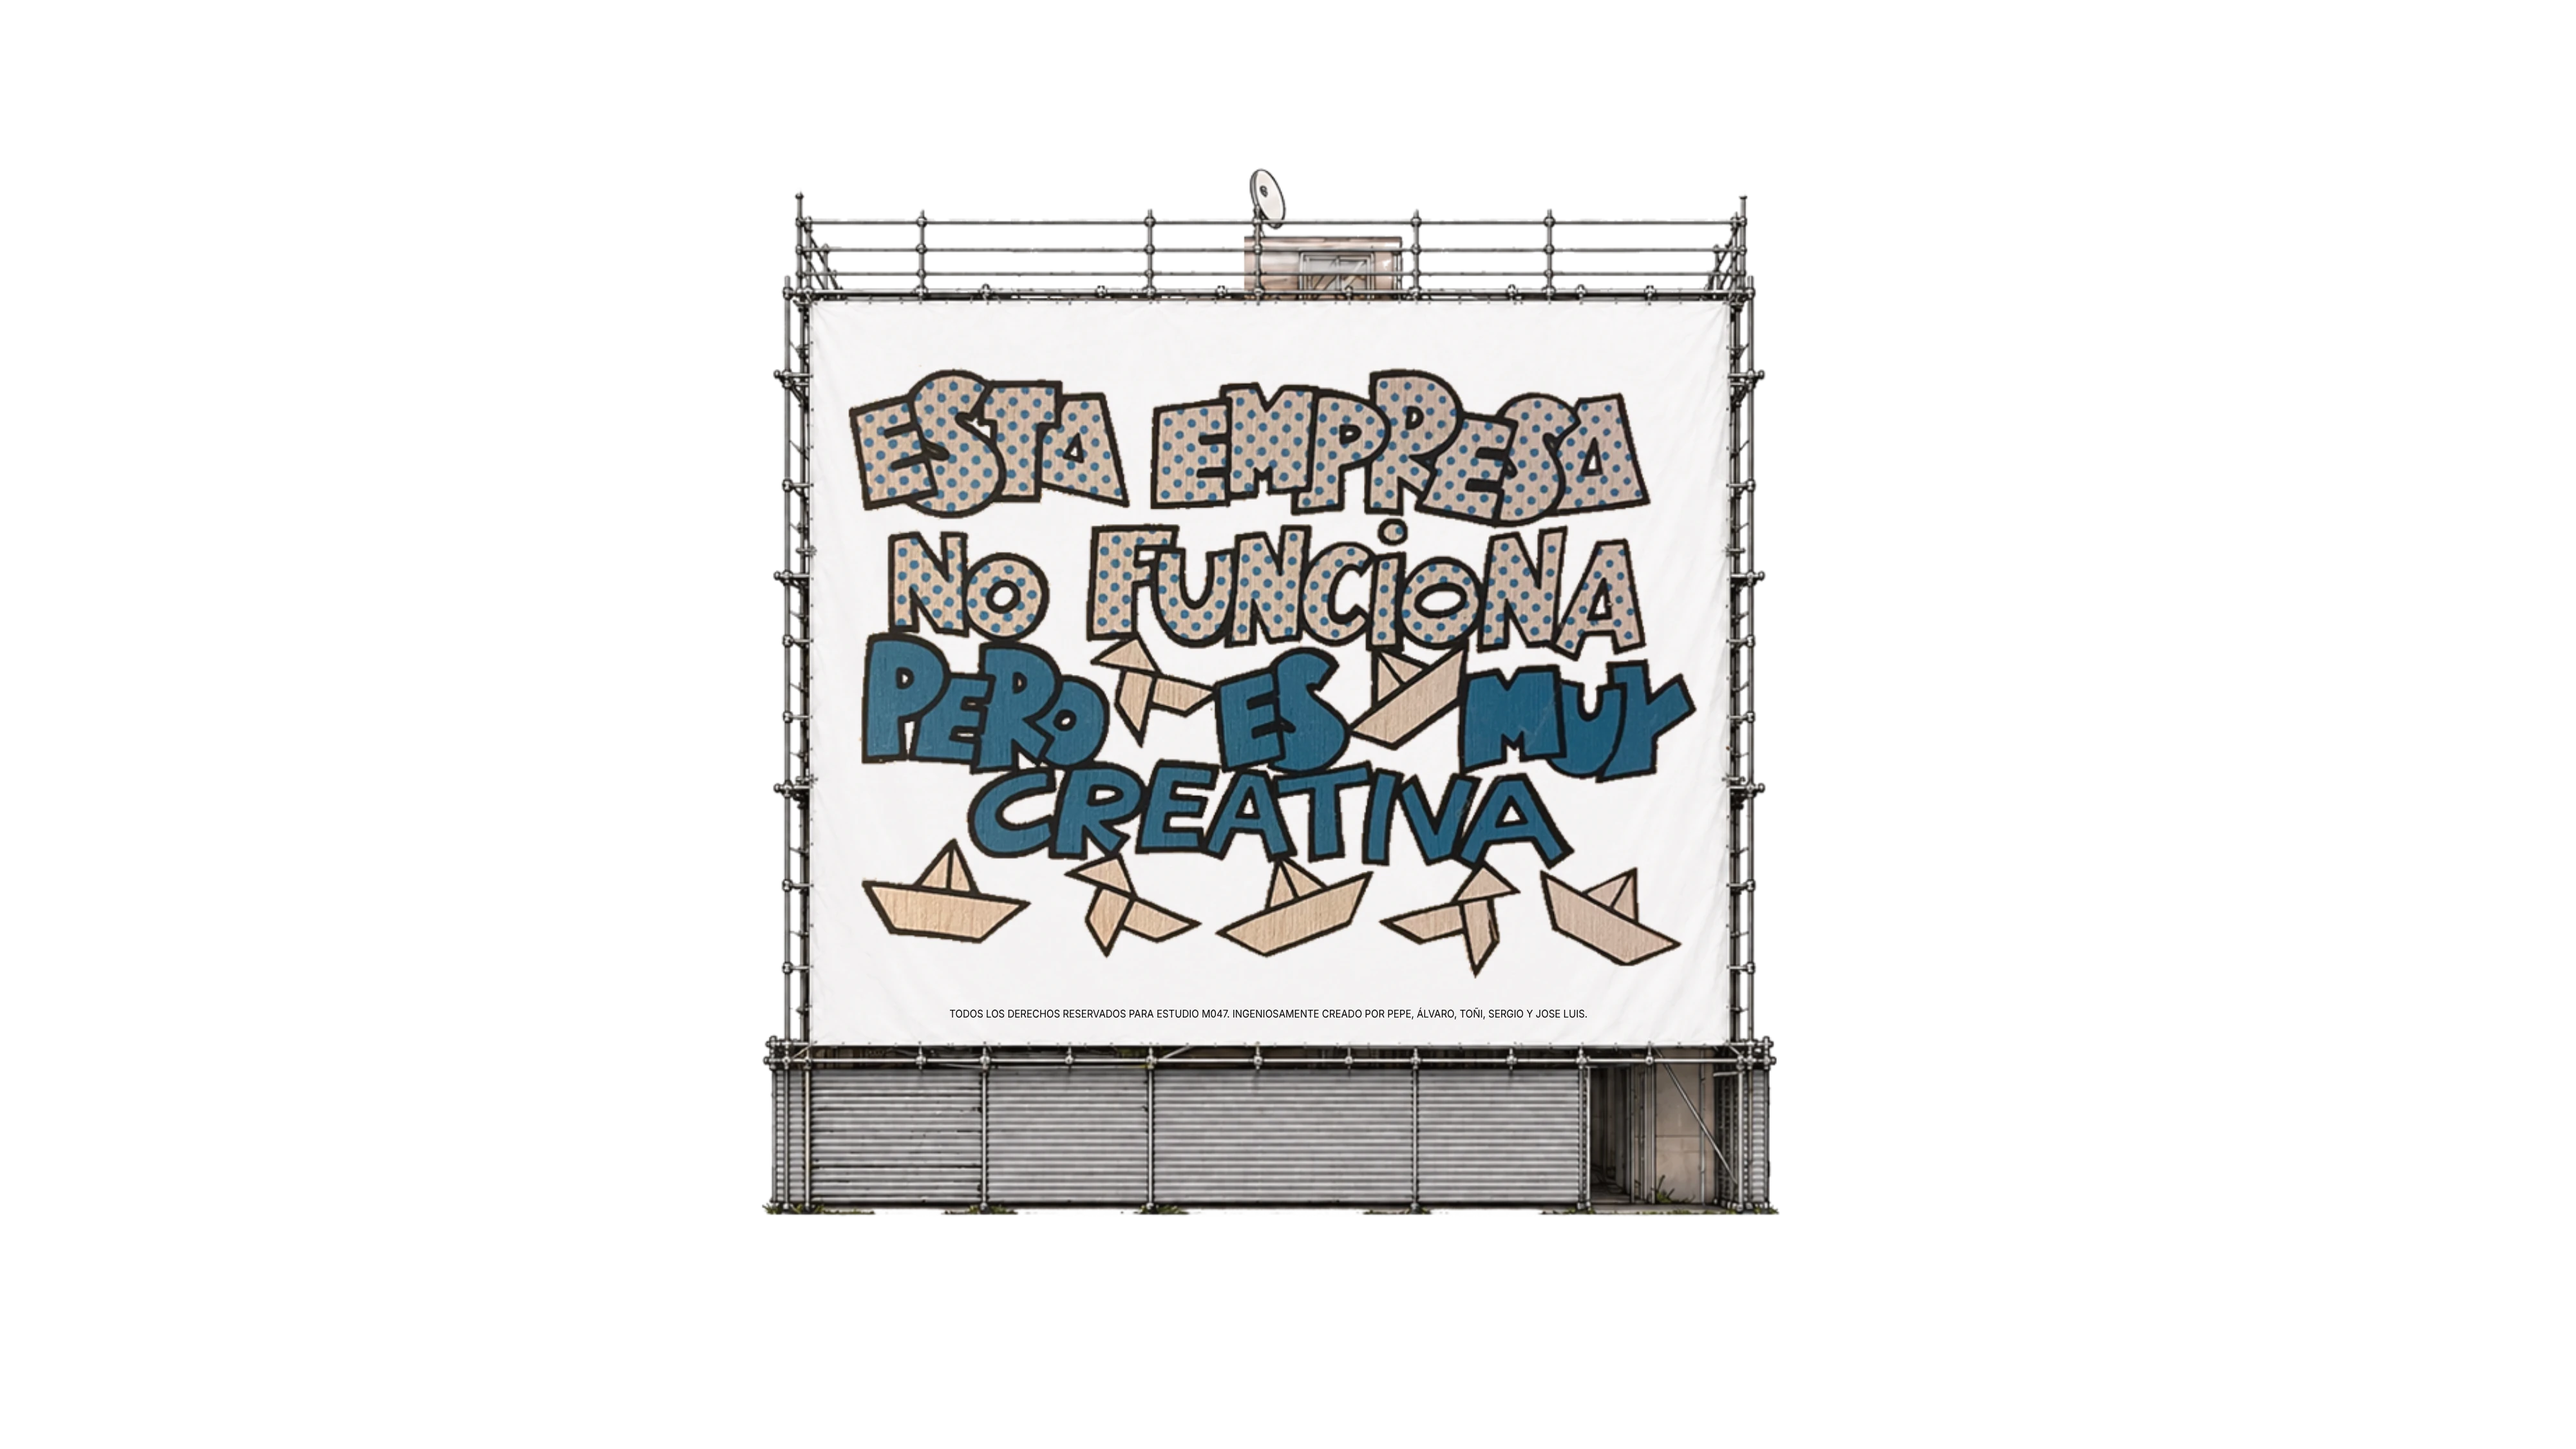
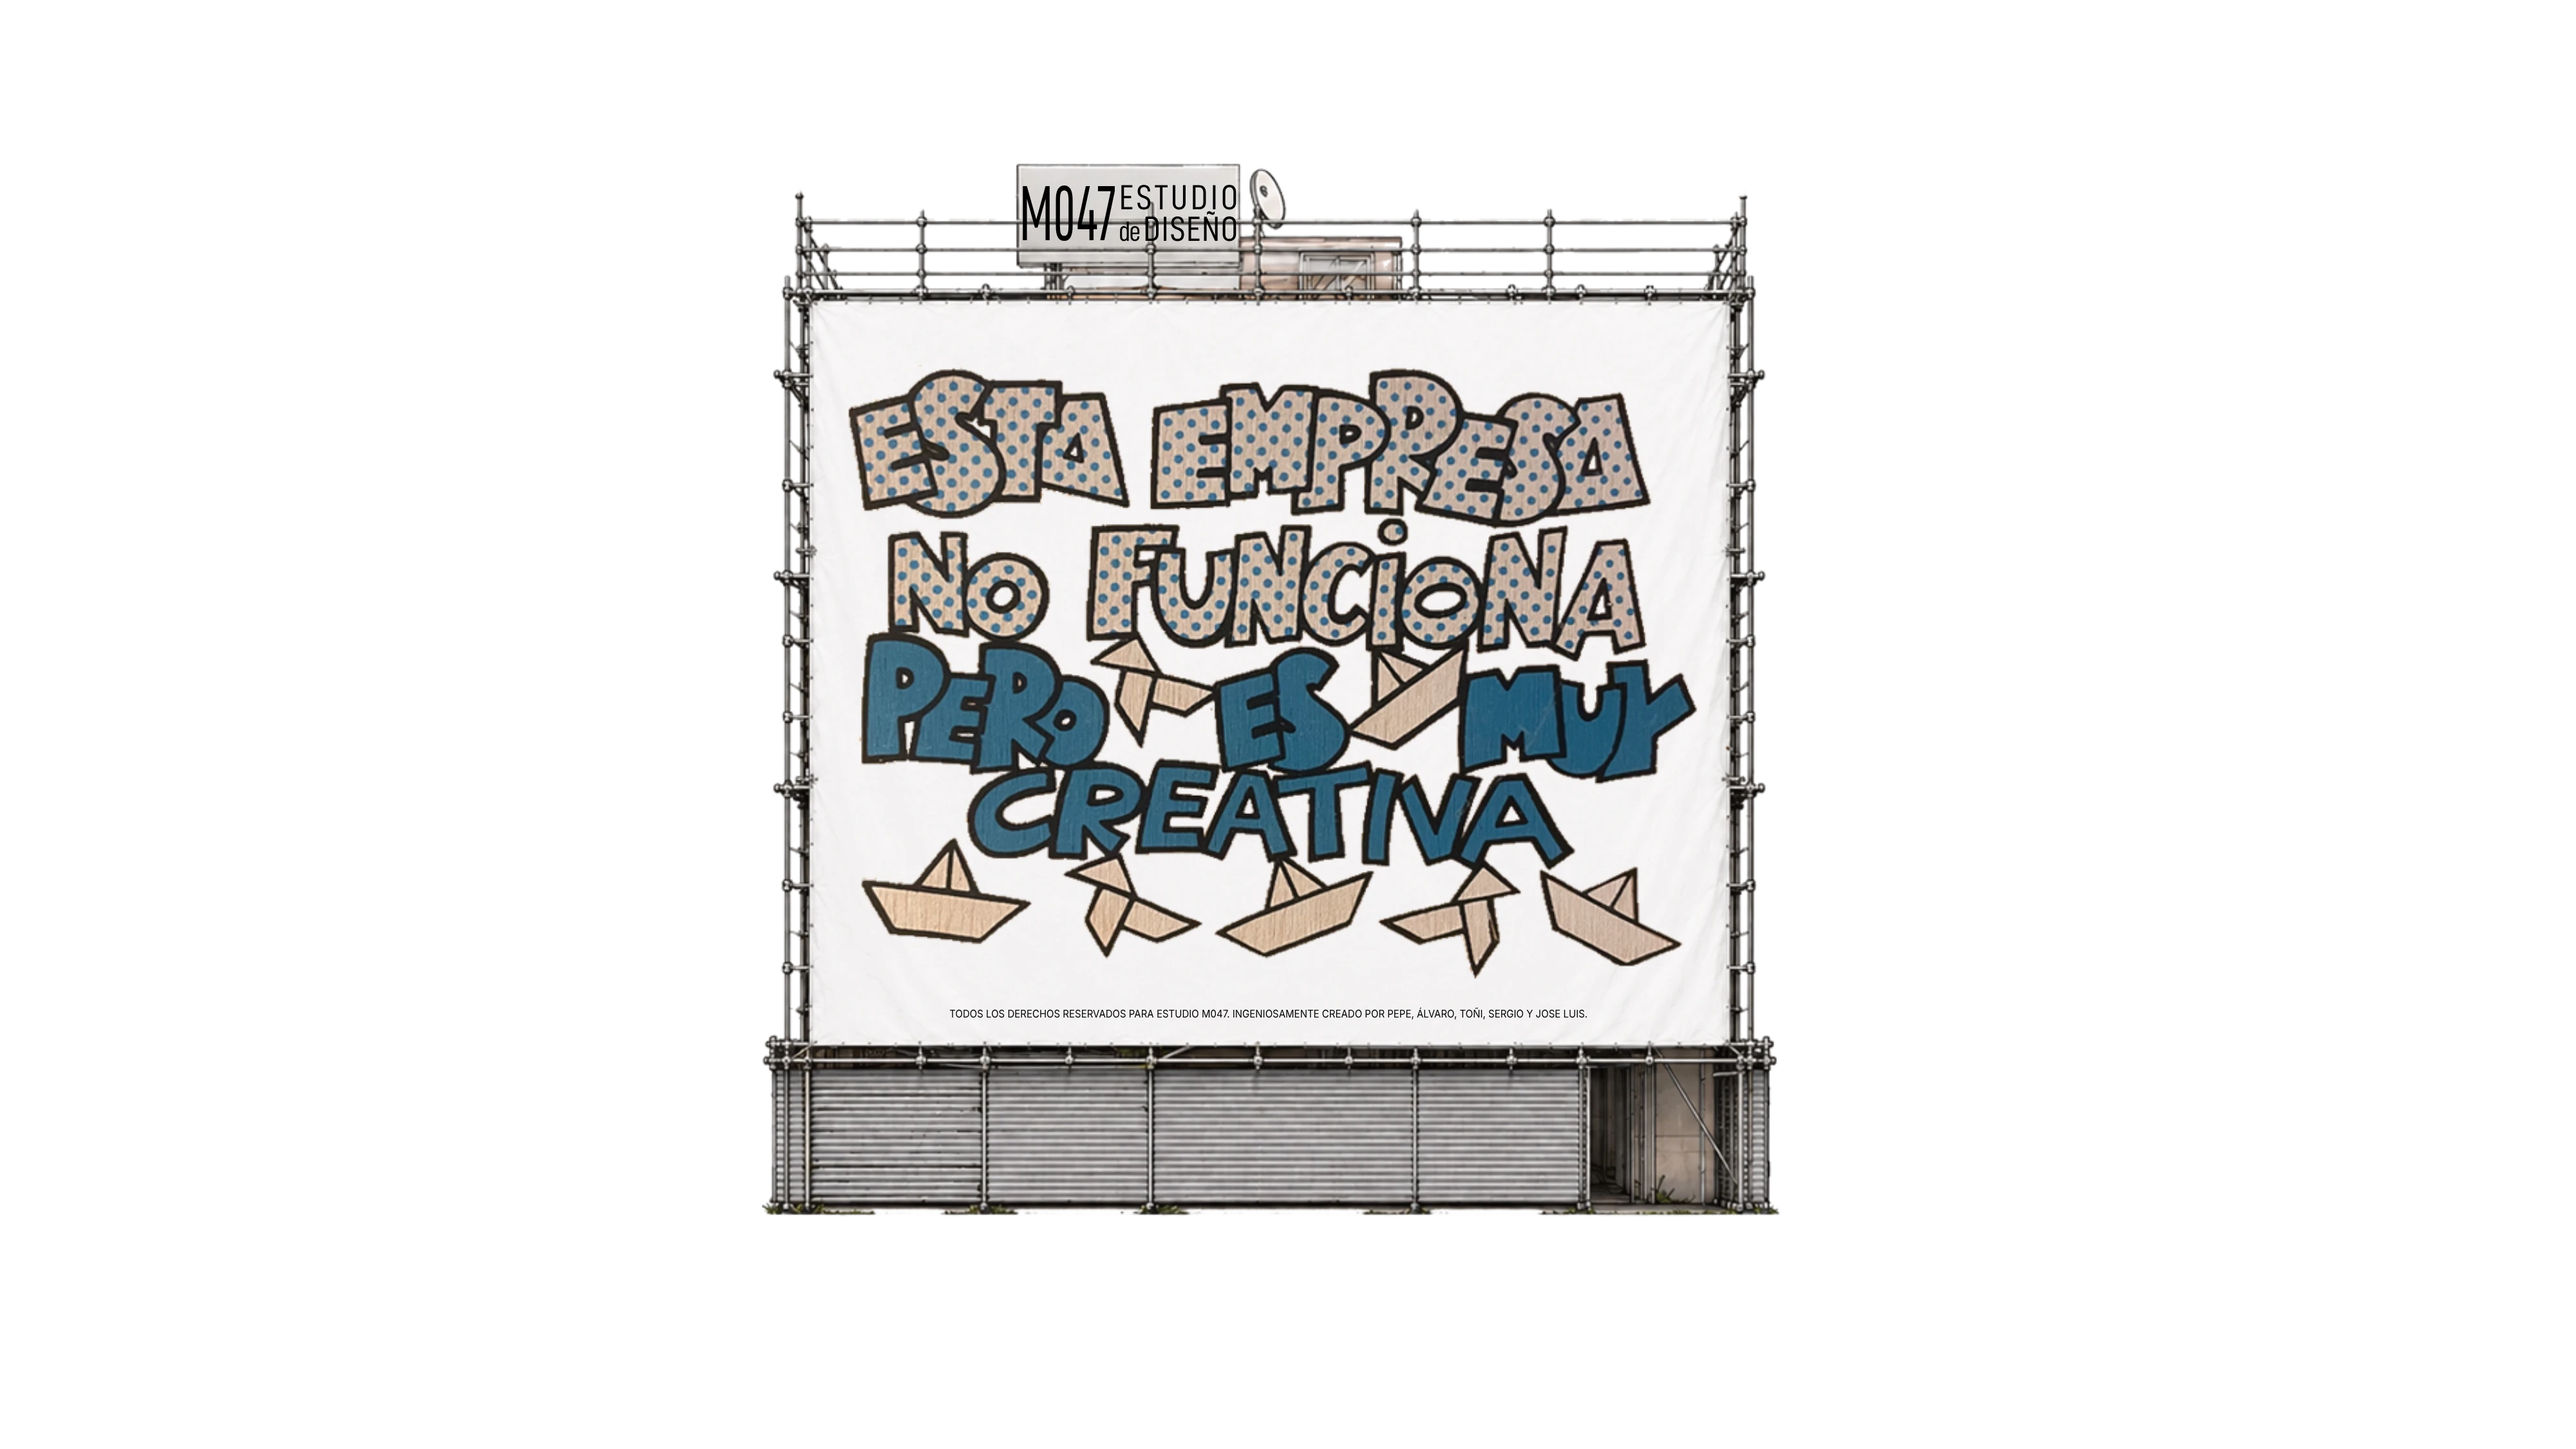
Pantalla de carga fiel al diseño y fondo original
- Vuelven las imágenes originales del fondo y la casa (sin versiones
  reducidas).
- Andamio con su cartel original, ahora con M047 en lugar de 228.
- Durante la carga se tapa el contorno del edificio que trae el fondo y se
  dibuja la línea de tierra con su escalón; menú y marco negro visibles.
- Los dos pájaros bajos pasan por la mitad alta de la ventana del ordenador.

Claude-Session: https://claude.ai/code/session_01Tckd7FRN1Wj5sD4FJaZp8R

Changed region(s): [[0.375, 0.0933, 0.5, 0.2178]]

diff --git a/src/components/SceneArtboard.jsx b/src/components/SceneArtboard.jsx
@@ -89,6 +89,19 @@ export default function SceneArtboard({
 
       {scaffold ? (
         <>
+          {/* Pantalla de carga: tapa el contorno del edificio que lleva dibujado
+              el fondo (detras del andamio y bajo el suelo) y dibuja la linea de
+              tierra con su escalon, como en el diseno de la pantalla de carga. */}
+          <div className={`scene-loading-ground pointer-events-none absolute inset-0${scaffold.leaving ? ' is-leaving' : ''}`} style={{ zIndex: 7 }} aria-hidden="true">
+            <div className="slg-white" style={{ left: '30.3%', width: '38.8%', top: '13%', bottom: 0 }} />
+            <div className="slg-white" style={{ left: 0, width: '69.05%', top: '83.2%', bottom: 0 }} />
+            <div className="slg-white" style={{ left: '69.05%', right: 0, top: '74.8%', bottom: 0 }} />
+          </div>
+          <div className={`scene-loading-ground pointer-events-none absolute inset-0${scaffold.leaving ? ' is-leaving' : ''}`} style={{ zIndex: 51 }} aria-hidden="true">
+            <div className="slg-line" style={{ left: 0, width: '69.1%', top: '83.15%', height: '0.14%' }} />
+            <div className="slg-line" style={{ left: '68.97%', width: '0.08%', top: '74.8%', height: '8.5%' }} />
+            <div className="slg-line" style={{ left: '68.97%', right: 0, top: '74.75%', height: '0.2%' }} />
+          </div>
           <div className="scene-overlay pointer-events-none absolute z-[52]">
             <div className={`scene-scaffold${scaffold.leaving ? ' is-leaving' : ''}`}>
               {/* Lo que asoma por encima del andamio (cartel M047 y arbol de

diff --git a/src/index.css b/src/index.css
@@ -2667,15 +2667,13 @@ a {
    (.is-loading) y aparecen con un fundido al pulsar. */
 .scene-frame .scene-house-layer,
 .scene-frame .scene-character-layer:not(.scene-keep),
-.scene-frame .scene-hotspots-layer,
-.scene-frame .scene-menu-layer {
+.scene-frame .scene-hotspots-layer {
   transition: opacity 1.4s ease;
 }
 
 .scene-frame.is-loading .scene-house-layer,
 .scene-frame.is-loading .scene-character-layer:not(.scene-keep),
-.scene-frame.is-loading .scene-hotspots-layer,
-.scene-frame.is-loading .scene-menu-layer {
+.scene-frame.is-loading .scene-hotspots-layer {
   opacity: 0;
   pointer-events: none;
 }
@@ -2701,7 +2699,7 @@ a {
 }
 
 .scene-scaffold-behind {
-  clip-path: inset(0 30.6% 80.6% 29.2%);
+  clip-path: inset(0 30.6% 82% 52%);
 }
 
 .scene-scaffold.is-leaving {
@@ -2744,4 +2742,30 @@ a {
 
 .scene-scaffold-catcher.is-ready {
   cursor: pointer;
+}
+
+/* Marco exterior siempre negro (tambien en la pantalla de carga). */
+.scene-frame {
+  border-color: #000000 !important;
+}
+
+.scene-loading-ground {
+  transition: opacity 1.4s ease;
+}
+
+.scene-loading-ground.is-leaving {
+  opacity: 0;
+}
+
+.slg-white,
+.slg-line {
+  position: absolute;
+}
+
+.slg-white {
+  background: #ffffff;
+}
+
+.slg-line {
+  background: #111111;
 }

diff --git a/src/data/sceneImages.js b/src/data/sceneImages.js
@@ -1,22 +1,10 @@
-// Imagenes de la portada.
+// Imagenes de la portada (originales a resolucion completa; Sergio rechazo las
+// versiones reducidas: se veian pixeladas).
 // Proporcion del dibujo original (fondo.jpg 7537 x 4500).
 export const SCENE_IMAGE_RATIO = 7537 / 4500
 
 // Ya no se estira en pantalla: el borde derecho se corrigio en el propio fondo.jpg.
 export const FONDO_STRETCH = 1
 
-// Versiones reducidas con filtro de calidad (sin enfocar ni retocar) en
-// public/scene/. Se elige la mas pequena que sea IGUAL O MAYOR que la pantalla
-// en pixeles reales: el navegador solo tiene que reducir un poco, nunca ampliar.
-// (Si se cambia fondo.jpg o Casa.png hay que regenerarlas.)
-const WIDTHS = [1800, 2200, 2600, 3000, 3400, 4000, 4800, 5600]
-
-function pickWidth() {
-  if (typeof window === 'undefined') return null
-  const target = Math.max(window.innerWidth, window.screen?.width || 0) * (window.devicePixelRatio || 1)
-  return WIDTHS.find((width) => width >= target) ?? null
-}
-
-const width = pickWidth()
-export const FONDO_SRC = width ? `/scene/fondo-${width}.jpg` : '/fondo.jpg'
-export const CASA_SRC = width ? `/scene/casa-${width}.png` : '/Casa.png'
+export const FONDO_SRC = '/fondo.jpg'
+export const CASA_SRC = '/Casa.png'

diff --git a/src/App.jsx b/src/App.jsx
@@ -167,7 +167,7 @@ function createBirdFlight(container) {
       // de los edificios del fondo.
       // Los dos ultimos van mas bajos: pasan por la ventana del ordenador.
       const isLow = i >= count - 2
-      const startY = isLow ? gsap.utils.random(43, 47) : gsap.utils.random(20, 40)
+      const startY = isLow ? gsap.utils.random(36.5, 39) : gsap.utils.random(20, 40)
       birds.push({
         el,
         delay: i * 0.18 + gsap.utils.random(0, 0.35),
@@ -175,7 +175,7 @@ function createBirdFlight(container) {
         startX: -4 - gsap.utils.random(0, 6),
         endX: 104 + gsap.utils.random(0, 4),
         startY,
-        endY: startY - (isLow ? gsap.utils.random(1, 3) : gsap.utils.random(4, 10)),
+        endY: startY - (isLow ? gsap.utils.random(0.3, 1.2) : gsap.utils.random(4, 10)),
         bob: gsap.utils.random(0.4, 0.9),
         bobSpeed: gsap.utils.random(3.6, 4.8),
         bobPhase: gsap.utils.random(0, Math.PI * 2),

diff --git a/CLAUDE.md b/CLAUDE.md
@@ -87,12 +87,11 @@ claro en español.
   entonces), bucle continuo de `public/sounds/ambiente_m047.mp3` (pista de
   Sergio con fundido cruzado final→inicio, 128 kbps) y timbre
   `public/sounds/telefono_timbre.mp3` (2 timbres, ~8,6 s).
-- `public/`: imágenes. `fondo.jpg` (7537×4500) y `Casa.png` son los originales;
-  la web carga versiones reducidas (Lanczos, SIN enfocar ni oscurecer) de
-  `public/scene/`, la más pequeña ≥ pantalla×DPR (nunca ampliar; ver
-  `src/data/sceneImages.js`). Si cambian los originales, regenerarlas.
-  El borde derecho del fondo se corrigió estirando solo la franja x>7100 dentro
-  de `fondo.jpg` (estirar toda la imagen desalineaba el gris con Casa.png). Referencia gráfica del
+- `public/`: imágenes. `fondo.jpg` (7537×4500) y `Casa.png` se usan SIEMPRE a
+  resolución completa: Sergio ha rechazado dos veces las versiones reducidas
+  (se ven pixeladas). No volver a intentarlo. El borde derecho del fondo se
+  corrigió estirando solo la franja x>7100 dentro de `fondo.jpg` (estirar toda
+  la imagen desalineaba el gris con Casa.png). Referencia gráfica del
   menú: Drive `Sección_228_M3(SIN FRAMES-CON MENÚ).png`.
 
 ### Capas de la portada (de atrás a delante, por z-index)
@@ -188,3 +187,11 @@ claro en español.
   originales; solo se quitó el cartel "228" y se ve el M047 de Casa.png detrás
   (`scene-scaffold-behind`, recorte de la parte alta). Pájaros solo tras entrar,
   15 (2 bajos por la ventana del ordenador), algo más lentos.
+- 2026-11-11 (8): pantalla de carga ajustada a la imagen de referencia de
+  Sergio: cartel original del andamio con "M047" en vez de "228"; capa blanca
+  (`scene-loading-ground`, z 7) que tapa el contorno del edificio que trae
+  `fondo.jpg` y lo de debajo del suelo, y línea de tierra con escalón (z 51,
+  izquierda al 83,15 %, derecha al 74,75 %, escalón en x 69 %). Menú y marco
+  negro visibles en la carga. Ojo: clases Tailwind arbitrarias (`z-[n]`) pegadas
+  a `${...}` en plantillas no se generan; usar `style`. Pájaros bajos al
+  36,5-39 % (mitad alta de la ventana del ordenador).
